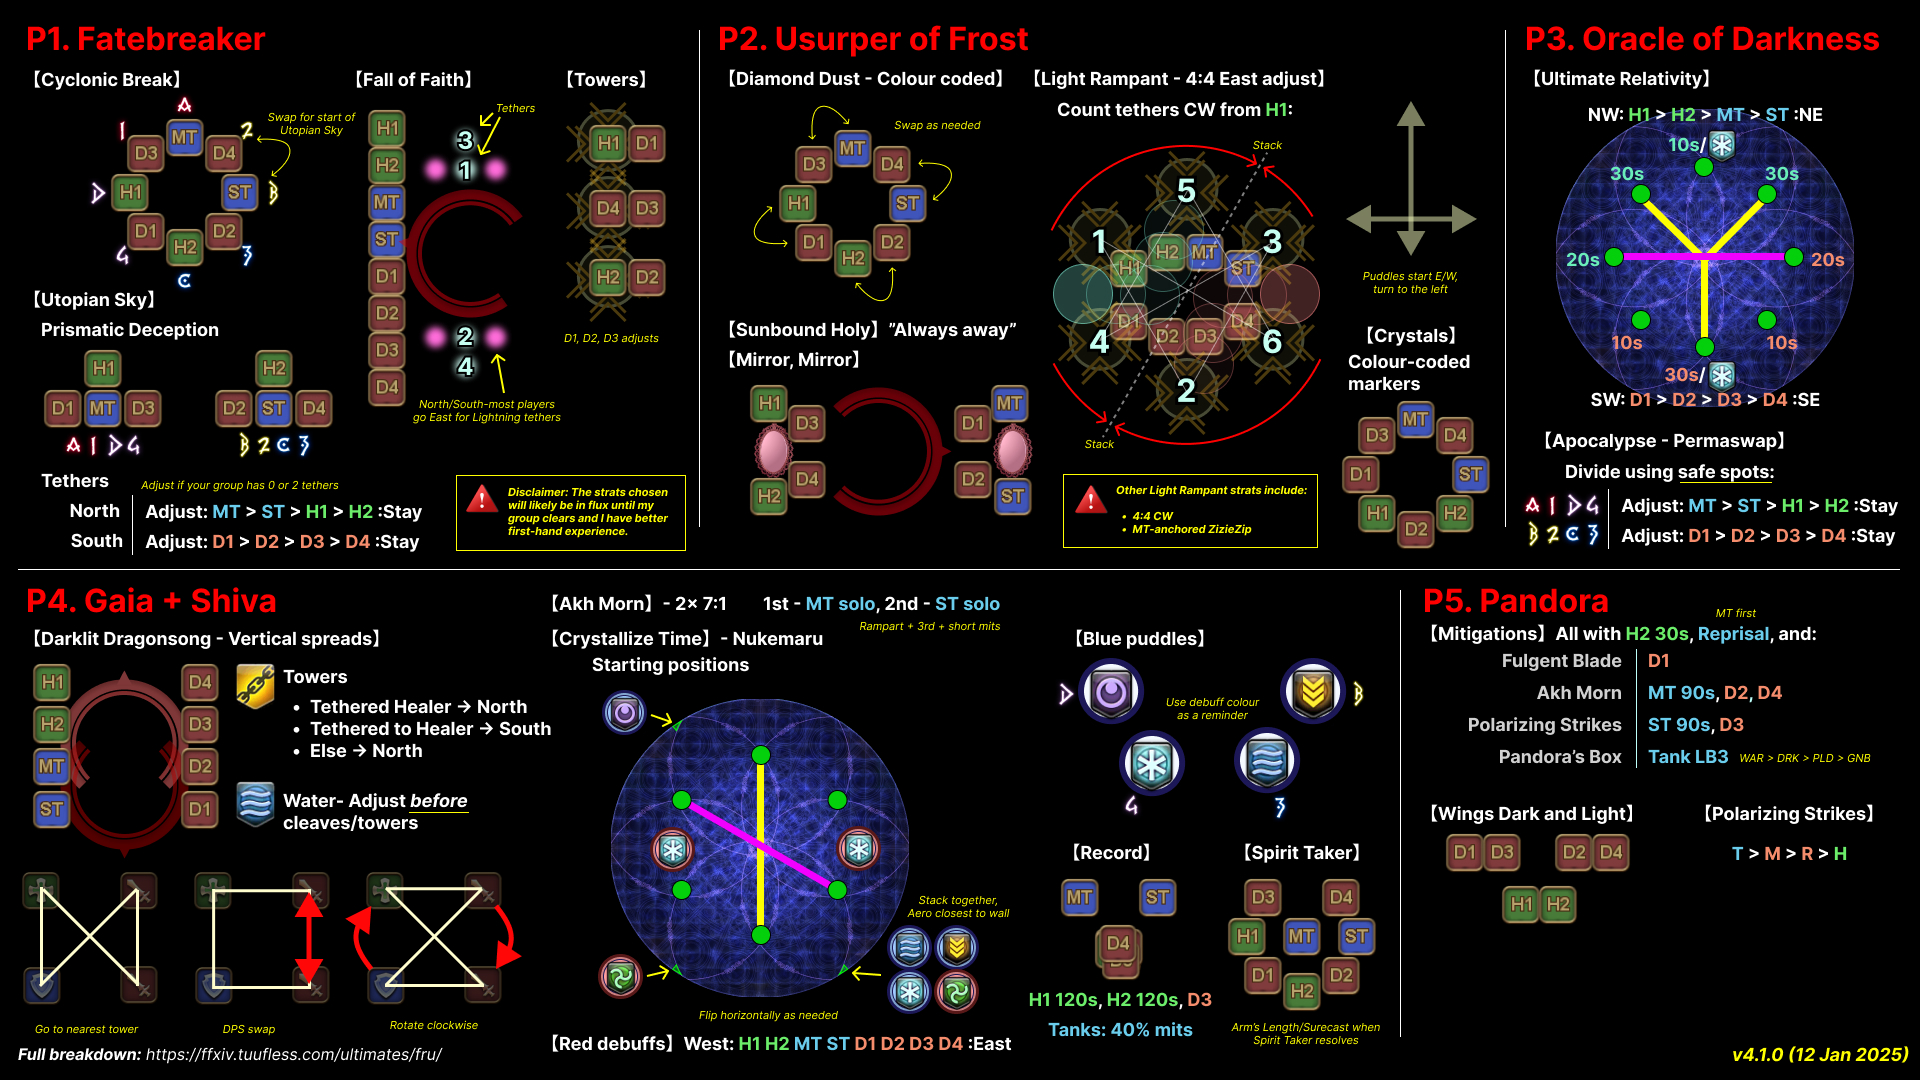
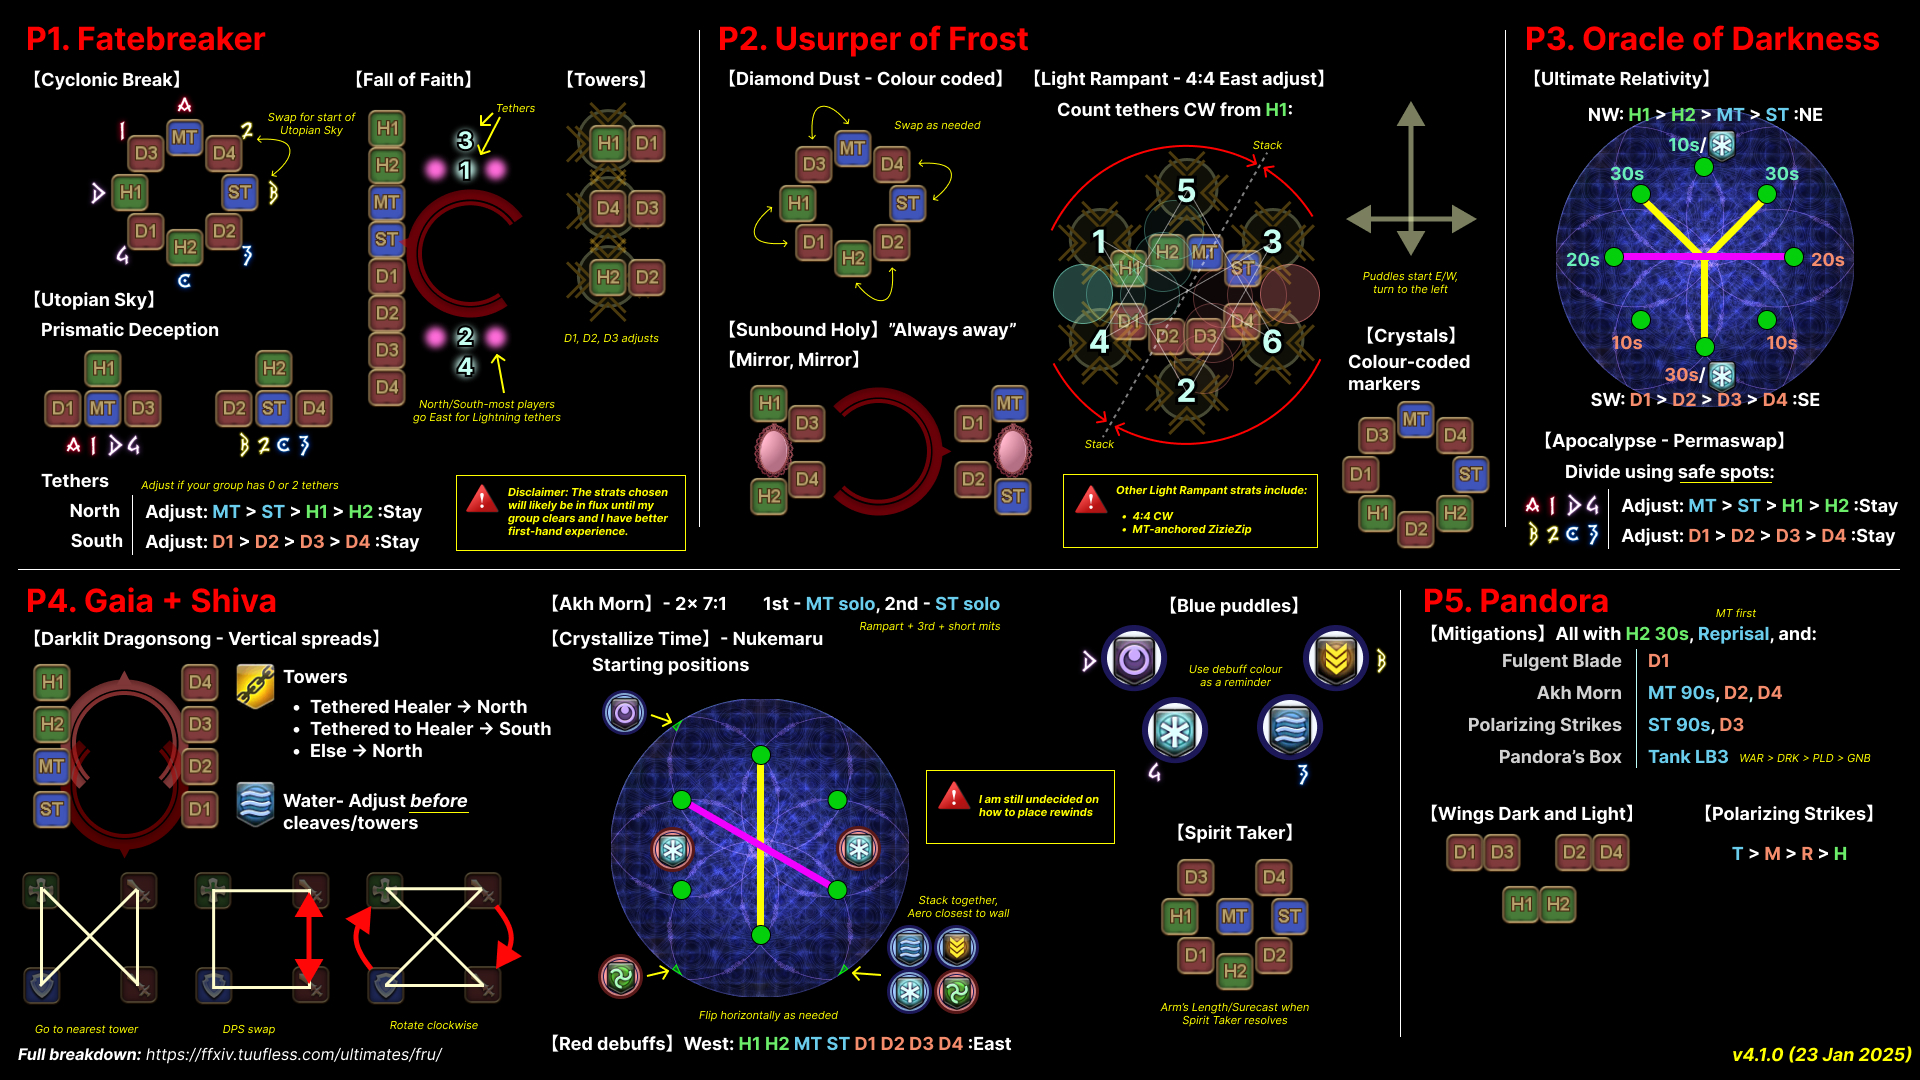
Add both Hallowed Wings strats

Changed region(s): [[0.4688, 0.55, 0.7188, 0.9778], [0.9375, 0.9472, 1.0, 1.0]]

diff --git a/_ultimates/fru/04_gaia_and_shiva.md b/_ultimates/fru/04_gaia_and_shiva.md
@@ -302,7 +302,12 @@ two bosses will tether together indicating which boss has too much HP.
   the party from wiping to <em>Morn Afah</em>.</p>
 </div>
 
-## Crystallize Time - Nukemaru
+## Crystallize Time
+
+<div style="background-color: #200 ; padding: 10px; border: 1px solid;">
+<b>I am currently undecided on the last part of <em>Crystallize Time</em>, so
+I'm just going to list the two main ideas I'm considering.</b>
+</div>
 
 The bosses will cast *Crystallize Time*. This is probably the hardest part of
 the encounter, so hang in there.
@@ -552,6 +557,123 @@ the sea of mechanics.
       <img src="{{site.baseurl}}/images/ultimates/fru/04/crystallize_time_08.jpg">
     </td>
   </tr>
+</table>
+
+From here, there are a couple options that I am currently undecided on. A hybrid
+of the two may be ideal, but I don't have enough first-hand experience yet to
+make a decision.
+
+### Option 1 - Waymark corners
+
+This is essentially doing *Crystallize Time* "normally", except that instead of
+going all the way to the wall, we use the intercardinal waymark corners (as the
+markers are squares) for reference.
+
+This tries to give well-defined positions to record, while also trying to keep
+the party close to the center of the arena.
+
+<div style="background-color: #002 ; padding: 10px; border: 1px solid;">
+<details markdown=block>
+<summary><b>[Click to Expand] Waymark corners</b></summary>
+<table>
+  <tr>
+    <td>
+      <p><b>20.</b> Position yourselves to dodge the second line AoE.</p>
+      <p>The objective is to end up at the intercardinal (square) waymark where 
+      <em>both</em> line AoEs originated from <em>(North-East in this
+      example)</em>.</p>
+      <p>At this point, all blue players should have cleansed their debuff.</p>
+    </td>
+    <td>
+      <img src="{{site.baseurl}}/images/ultimates/fru/04/crystallize_time_09.jpg">
+    </td>
+  </tr>
+  <tr>
+    <td>
+      <p><b>21.</b> Dodge the second horizontal line AoE.</p>
+      <p>The blue debuffed players should aim to have picked up their puddles
+      by this point.</p>
+    </td>
+    <td>
+      <img src="{{site.baseurl}}/images/ultimates/fru/04/crystallize_time_10.jpg">
+    </td>
+  </tr>
+  <tr>
+    <td>
+      <p><b>22.</b> Stand on the corners of the waymark facing against the
+      direction both line AoEs came from (in this case North-East).</p>
+      <p>Facing the wall, we want:</p>
+      <ul>
+        <li><b>H1, D1, D3:</b> Relative left corner.</li>
+        <li><b>H2, D2, D4:</b> Relative left corner.</li>
+        <li><b>MT, ST:</b> Halfway along the marker edge. Position yourselves
+        in front of your group.</li>
+      </ul>
+      <p>Everybody records their position in this formation.</p>
+      <p>A <em>Quietus</em> raid-wide will also go off shortly before
+      everybody's positions are recorded.</p>
+    </td>
+    <td>
+      <img src="{{site.baseurl}}/images/ultimates/fru/04/crystallize_time_wm_12.jpg">
+    </td>
+  </tr>
+  <tr>
+    <td>
+      <p><b>23.</b> After recording your position, spread out for <em>Spirit 
+      Taker</em> on a random player.</p>
+      <p>Spread out in your regular spread positions, <em>except</em> the MT,
+      who goes to the middle of the arena instead (because of the Fragment of 
+      Fate).</p>
+      <p><em>(N.B: I am not sure if there is enough time for this if you
+      recorded at the waymarks- I am aware it would make more sense for the
+      tanks to just move to the edge instead.)</em></p>
+    </td>
+    <td>
+      <img src="{{site.baseurl}}/images/ultimates/fru/04/crystallize_time_13.jpg">
+    </td>
+  </tr>
+  <tr>
+    <td>
+      <p><b>24.</b> The rewind resolves, and the Usurper of Frost casts 
+      <em>Hallowed Wings</em> from the side where the first line AoE came from.</p>
+      <ul>
+        <li>The party gets knocked back half the arena.</li>
+        <li>The first four members hit get a <em>Magic Vulnerability</em>
+        debuff.</li>
+        <li>The first player hit takes the most damage (which should be a
+        tank), with the players at the back taking less damage.</li>
+      </ul>
+    </td>
+    <td>
+      <img src="{{site.baseurl}}/images/ultimates/fru/04/crystallize_time_wm_14.jpg">
+    </td>
+  </tr>
+  <tr>
+    <td>
+      <p><b>25.</b> The second <em>Hallowed Wings</em> resolves, this time from
+      North or South (wherever the second line AoE came from).</p>
+      <p>The party will get knocked back half the arena.</p>
+    </td>
+    <td>
+      <img src="{{site.baseurl}}/images/ultimates/fru/04/crystallize_time_wm_15.jpg">
+    </td>
+  </tr>
+</table>
+</details>
+</div>
+
+### Option 2 - Nukemaru Y-antikb
+
+This is essentially Nukemaru's anti-kb "Y-shaped" strat that's done in Mana.
+
+While the positioning is much simpler, it has *considerable* mitigation
+requirements, which may not be ideal given the number of raid-wide damage
+events leading up to *Crystallize Time*.
+
+<div style="background-color: #002 ; padding: 10px; border: 1px solid;">
+<details markdown=block>
+<summary><b>[Click to Expand] Nukemaru's Y-antikb</b></summary>
+<table>
   <tr>
     <td>
       <p><b>20.</b> Position yourselves to dodge the second line AoE.</p>
@@ -635,6 +757,8 @@ the sea of mechanics.
     </td>
   </tr>
 </table>
+</details>
+</div>
 
 ## Akh Morn 2 - 7:1 (ST solo)
 

diff --git a/_ultimates/fru_mana/01_fatebreaker.en.md b/_ultimates/fru_mana/01_fatebreaker.en.md
@@ -10,7 +10,7 @@ permalink: /ultimates/fru_mana/01_fatebreaker/
 
 # Fatebreaker（フェイトブレイカ）
 
-## Cyclonic Break
+## Cyclonic Break（サイクロニックブレイク）
 
 Fatebreaker opens with *Cyclonic Break*, which is a mechanic that reappears 
 shortly in the middle of *Utopian Sky*.
@@ -107,7 +107,7 @@ shortly in the middle of *Utopian Sky*.
   </tr>
 </table>
 
-## Utopian Sky
+## Utopian Sky（楽園絶技）
 
 The boss will then cast *Utopian Sky* and glow either red or blue. **Pay 
 attention to this colour.**
